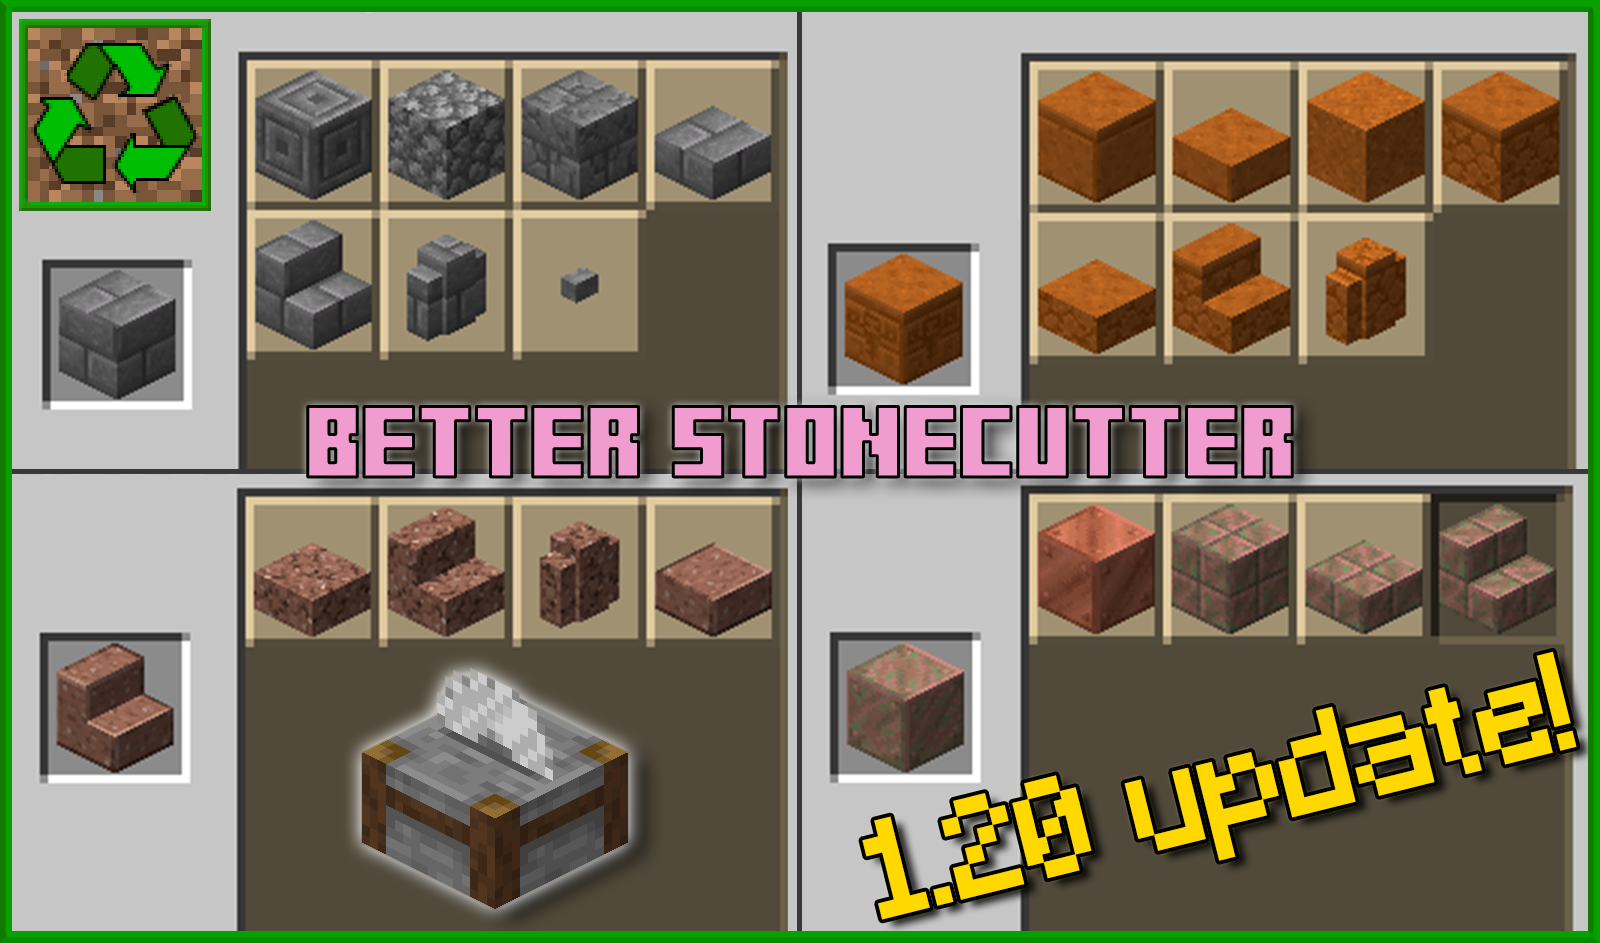
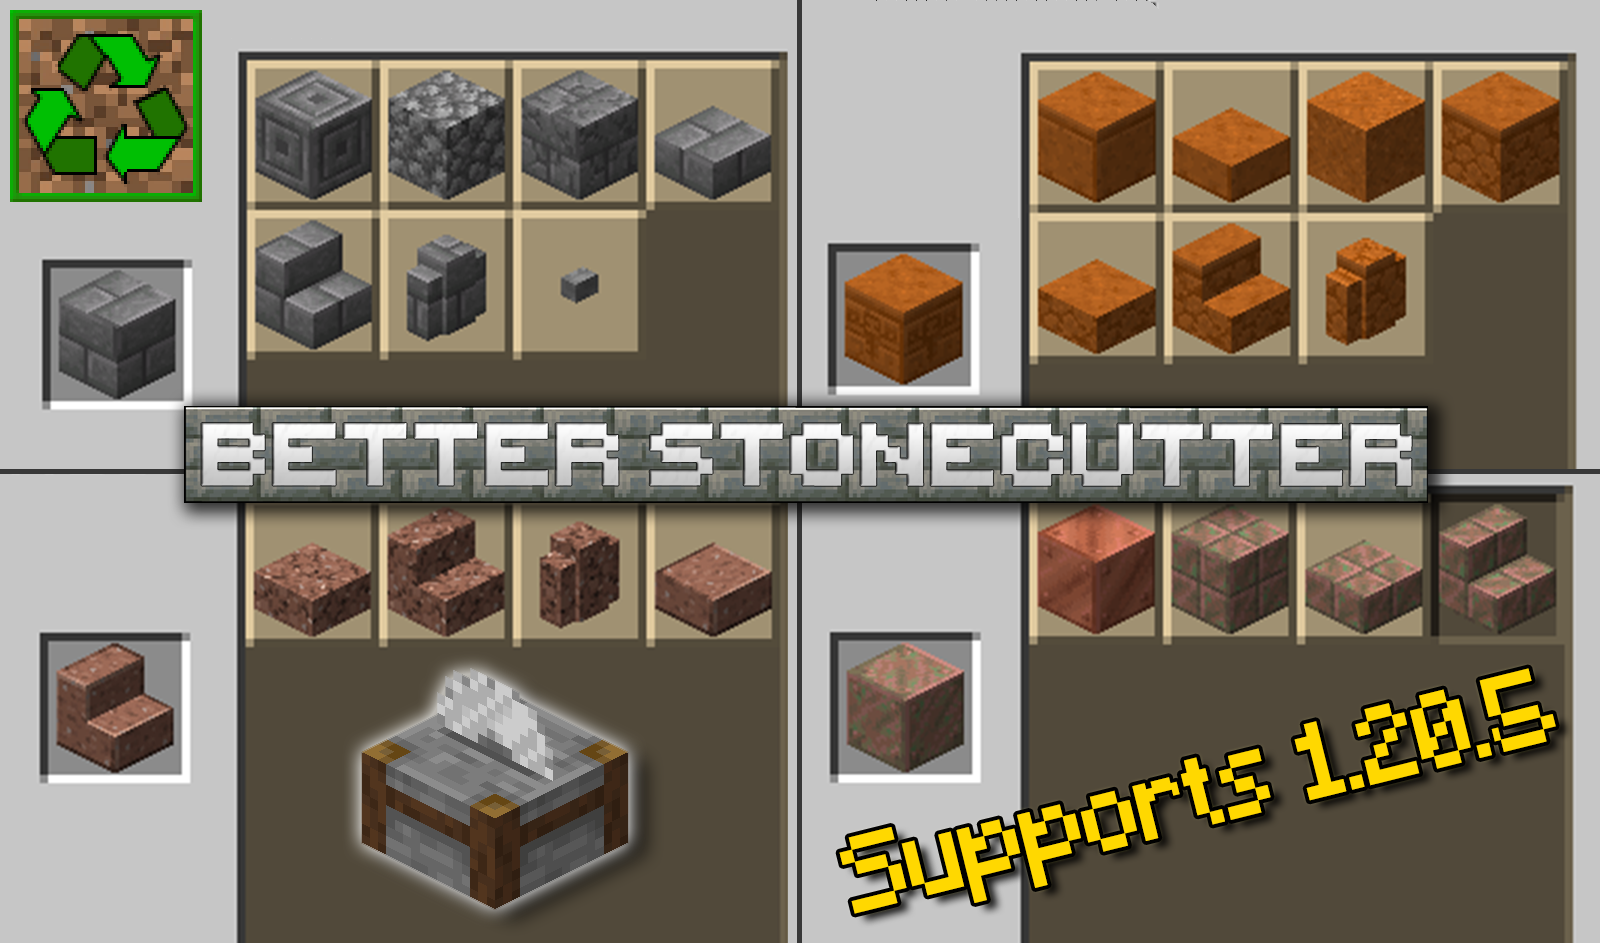
better stonecutter 2.0

Changed region(s): [[0.0, 0.0, 1.0, 1.0], [0.0938, 0.3998, 0.9062, 0.5536]]

diff --git a/pages/recyclecraft/better_stonecutter.md b/pages/recyclecraft/better_stonecutter.md
@@ -4,19 +4,19 @@ keywords: minecraft, datapack
 tags: [datapack, recyclecraft, standalone, QoL, crafting]
 sidebar: home_sidebar
 toc: true
-last_updated: 03/Jan/2024
+last_updated: 25/Apr/2024
 permalink: better_stonecutter.html
 published: true
 pmc: https://www.planetminecraft.com/data-pack/better-stonecutter-5432526/
 first_release: ["05","Jan","2022"]
-last_release: ["27","Mar","2023"]
+last_release: ["25","Apr","2024"]
 logo: recyclecraft/better_stonecutter/pack.png
 intro: "A datapack that adds more recipes to the stonecutter, allowing you to change more easily between block variants and waste less resources."
 abstract: "Adds more recipes to the stonecutter, allowing you to change more easily between block variants and waste less resources."
 priority: 3
 index: 4
-downloads: 3834
-downloads_str: "&gt;3.8k"
+downloads: 4100
+downloads_str: "&gt;4.1k"
 thumbnail: recyclecraft/better_stonecutter/thumbnail.png
 gallery: [images/recyclecraft/better_stonecutter/thumbnail.png,https://static.planetminecraft.com/files/image/minecraft/data-pack/2022/526/15262629-screenshot-at_l.webp,https://static.planetminecraft.com/files/image/minecraft/data-pack/2022/526/15262638-screenshot-at_l.webp,https://static.planetminecraft.com/files/image/minecraft/data-pack/2022/526/15262628-screenshot-at_l.webp,https://static.planetminecraft.com/files/image/minecraft/data-pack/2023/526/16630269_l.webp,https://static.planetminecraft.com/files/image/minecraft/data-pack/2022/526/15262630-screenshot-at_l.webp,https://static.planetminecraft.com/files/image/minecraft/data-pack/2022/526/15262552-screenshot-at_l.webp,https://static.planetminecraft.com/files/image/minecraft/data-pack/2022/526/15262637-screenshot-at_l.webp,https://static.planetminecraft.com/files/image/minecraft/data-pack/2022/526/15262633-screenshot-at_l.webp,https://static.planetminecraft.com/files/image/minecraft/data-pack/2022/526/15262632-screenshot-at_l.webp]
 ---
@@ -26,7 +26,9 @@ gallery: [images/recyclecraft/better_stonecutter/thumbnail.png,https://static.pl
 Choose the option compatible with your Minecraft version:
 
 <ul id="profileTabs" class="nav nav-tabs">
-    <li class="active"><a href="#current" data-toggle="tab">1.19+</a></li>
+    <li class="active"><a href="#current" data-toggle="tab">1.20.5+ (vanilla-balanced version)</a></li>
+    <li><a href="#current-op" data-toggle="tab">1.20.5+ ("OP" version)</a></li>
+    <li><a href="#legacy1-20" data-toggle="tab">1.19–1.20.4</a></li>
     <li><a href="#legacy" data-toggle="tab">1.17–1.18.2</a></li>
     <li><a href="#legacy2" data-toggle="tab">1.16.x</a></li>
 </ul>
@@ -34,9 +36,23 @@ Choose the option compatible with your Minecraft version:
 <div class="tab-content">
     <div role="tabpanel" class="tab-pane active" id="current">
         <p>
-            {% include dp_badges.html supports="1.19%2B" tested="1.19.4, 1.20, 1.20.4" %}
+            {% include dp_badges.html supports="1.20.5+" tested="1.20.5" %}
             <br/>
-            {% include dp_download.html version="v1.1.2" pmc-url="https://www.planetminecraft.com/data-pack/better-stonecutter-5432526/download/file/16628279/" dropbox-url="https://www.dropbox.com/s/llacu0cs85nwtkh/better_stonecutter_v1.1.2.zip?dl=1" %}
+            {% include dp_download.html version="v2.0-balanced" pmc-url="https://www.planetminecraft.com/data-pack/better-stonecutter-5432526/" dropbox-url="https://www.dropbox.com/scl/fi/ldw406fm8ejd5mfv5dco5/better_stonecutter_v2.0-balanced.zip?rlkey=r3m4me1fm3ijz53mezs8j82ji&st=yn4yhzaz&dl=1" %}
+        </p>
+    </div>
+    <div role="tabpanel" class="tab-pane" id="current-op">
+        <p>
+            {% include dp_badges.html supports="1.20.5+" tested="1.20.5" %}
+            <br/>
+            {% include dp_download.html version="v2.0-op" pmc-url="https://www.planetminecraft.com/data-pack/better-stonecutter-5432526/" dropbox-url="https://www.dropbox.com/scl/fi/6zu9wrmg2wa5j1v5hxrnr/better_stonecutter_v2.0-op.zip?rlkey=1t70u99ivu0kbxk6zw39cq8h2&st=vma6jd4x&dl=1" %}
+        </p>
+    </div>
+    <div role="tabpanel" class="tab-pane" id="legacy1-20">
+        <p>
+            {% include dp_badges.html supports="1.19–1.20.4" tested="1.19.4, 1.20, 1.20.4" %}
+            <br/>
+            {% include dp_download.html version="v1.1.2" dropbox-url="https://www.dropbox.com/s/llacu0cs85nwtkh/better_stonecutter_v1.1.2.zip?dl=1" discontinued=true %}
         </p>
     </div>
     <div role="tabpanel" class="tab-pane" id="legacy">
@@ -59,24 +75,26 @@ Choose the option compatible with your Minecraft version:
 
 ## Features
 
+{% include comments/tip.html content="There are two versions of this datapack:<br/><br/>&nbsp;&#x2022;&nbsp;The **\"OP\" version**: adds recipes according to my own judgement of what is balanced, but may be considered to be over-powered by some.<br/>&nbsp;&#x2022;&nbsp;The **\"vanilla-balanced\" version**: adds recipes more accordingly to the conversion rates of the regular vanilla recipes, to make the datapack less exploitable to those that prefer a more restricted experience.<br/><br/>See below for a summary of the differences between versions." %}
+
 Products of stonecutting are given recipes so they can be cut again into smaller or equal-size items (for example, stairs into slabs).
 
 - Some items can now be obtained through stonecutting:
     - Stone/blackstone &#x21D2; pressure plates, buttons
     - Nether Bricks &#x21D2; Nether Brick fence, Nether brick
-    - Quartz &#x21D2; Nether quartz
-    - Sandstone &#x21D2; sand
-    - Copper &#x21D2; copper ingots
-    - Iron &#x21D2; doors, pressure plates, iron bars, iron ingots
+    - Quartz &#x21D2; Nether quartz ("OP" version only)
+    - Sandstone &#x21D2; sand ("OP" version only)
+    - Copper &#x21D2; copper ingots, copper grates, copper doors, etc.
+    - Iron &#x21D2; doors, pressure plates, iron bars, iron ingots, chains ("OP" version only)
     - Gold &#x21D2; pressure plates, gold ingots
-    - Prismarine &#x21D2; prismarine shards
-    - Amethyst blocks or clusters &#x21D2; amethyst shards
+    - Prismarine &#x21D2; prismarine shards ("OP" version only)
+    - Amethyst blocks or clusters &#x21D2; amethyst shards ("OP" version only)
     - Mud bricks &#x21D2; Packed mud
   
-{% include comments/important.html content='Some of these recipes alter the vanilla balance by adding new ways to obtain certain items (for example, sand from sandstone or amethyst shards from blocks). I added them because I thought it made sense, but if you don\'t like it, it\'s possible to remove these recipes by simply going into the datapack\'s <code>data/dnv.recyclecraft/recipes/stonecutter/</code> folder and removing the recipes that you don\'t want (they are organized in subfolders, so it is easy to identify them and bulk-remove them).' %}
+{% include comments/important.html content='If you don\'t like some of the recipes, it\'s possible to remove them by simply going into the datapack\'s <code>data/dnv.better_stonecutter/recipes/</code> folder and removing the recipes that you don\'t want (they are organized in subfolders, so it is easy to identify them and bulk-remove them).' %}
 
 - You can switch between stone types (and their products) more easily:
-    - Stone can be cut into: smooth stone, stone bricks, cobblestone
+    - Stone can be cut into: stone bricks, cobblestone
     - Stone bricks can be cut into cobblestone
     - Mossy cobblestone can be cut into cobblestone
     - Mossy stone bricks can be cut into: mossy cobblestone, regular stone bricks, cobblestone
@@ -89,8 +107,21 @@ Products of stonecutting are given recipes so they can be cut again into smaller
 
 - Copper can be deoxidized and dewaxed with the stonecutter. Copper blocks can be cut into 5 stairs instead of 4, which makes more sense.
 
+### Differences in vanilla-balanced version with respect to the "OP" version:
+
+- Things that cannot be obtained from cutting:
+  - Amethyst shards, sand, red sand, quartz, and prismarine shards
+  - Copper doors/trapdoors
+  - Chains
+
+- Things that are more expensive:
+  - Lightning rods
+  - Iron trapdoors and bars
+  - Pressure plates and buttons
+  - Nether brick fences
+
 ## Considerations
 
-- As noted above, this datapack might make it easier to obtain certain types of blocks, but you have the option to remove those recipes manually.
+- This datapack might make it easier to obtain certain types of blocks, but you have the option to remove those recipes manually.
 - The recipes were designed taking into account [Vanilla Tweak's _Back to Blocks_ datapack](https://vanillatweaks.net/picker/crafting-tweaks/){:target="_blank"}, I recommend using that datapack along with this one to make the most efficient use of blocks.
 - The [_Cuttable Wood_](cuttable_wood.html) datapack extends this same philosophy to wooden blocks. I recommend using them together.

diff --git a/_includes/changelogs/better_stonecutter/v2.0.md b/_includes/changelogs/better_stonecutter/v2.0.md
@@ -1,0 +1,62 @@
+
+- Now there are two versions of this datapack (same as with my Cuttable Wood datapack):
+  - A "OP" version, which follows the same philosophy as the previous versions of this datapack (recipe are balanced by my own judgement).
+  - A "vanilla-balanced" version, which takes into account the vanilla recipes in order to nerf the output of some recipes, and forbids some recipes that are available in the "OP" version which are impossible in vanilla Minecraft (mainly, unpacking blocks such as sandstone into sand, quartz blocks into quartz, etc.).
+- Recipes for new 1.21 tuff and copper blocks.
+- All recipes were revised. Now an algorithm that takes into account the value of each block is used to decide its output. See below the recipe changes.
+- Adapted recipes to new format.
+- Simplified recipe-unlocking advancements, making the datapack lighter.
+- Re-organized datapack files.
+- The new datapack is now about 50% of its previous size.
+
+### Differences in vanilla-balanced version with respect to the "OP" version:
+
+- Things that cannot be obtained from cutting:
+  - Amethyst shards, sand, red sand, quartz, and prismarine shards
+  - Copper doors/trapdoors
+  - Chains
+
+- Things that are more expensive:
+  - Lightning rods
+  - Iron trapdoors and bars
+  - Pressure plates and buttons
+  - Nether brick fences
+
+### Recipe changes (in "OP" version, with respect to previous versions):
+
+New recipes for 1.21:
+
+- Copper grates are obtainable from copper blocks, cut copper, and chiseled copper
+- Copper doors are obtainable from copper blocks, cut copper, chiseled copper, and copper grates
+- Copper trapdoors are obtainable from copper blocks, cut copper, stairs, slabs, chiseled copper, copper grates, and doors
+- De-waxing and de-oxidizing recipes for all new copper blocks, including the copper bulb
+
+Other new recipes (mostly things I missed in previous versions):
+
+- Chains are now obtainable from iron blocks, doors, trapdoors, and iron pressure plates
+- Prismarine bricks are more valuable than regular prismarine (since they require more shards), so prismarine brick partial blocks can now be cut into prismarine blocks (e.g. prismarine brick stairs -> prismarine)
+- Amethyst cluster -> Amethyst block
+- Blackstone stairs/slabs/walls -> Polished blackstone buttons/pressure plates
+- Chiseled polished blackstone -> polished blackstone partial blocks
+- Chiseled stone bricks -> stone brick partial blocks
+- Recipes to switch between blackstone variants (regular <-> polished <-> bricks <-> chiseled)
+- Copper ingots and lightning rods from some copper blocks
+- Cracked bricks/tiles are now also cuttable to non-cracked partial brick/tiles blocks (e.g. cracked stone bricks -> stone brick wall)
+- Smooth variants can now be cut into non-smooth variants (e.g. smooth sandston slab -> sandstone slab)
+- Mossy stone variants -> stone buttons
+- Mossy stone bricks -> Chiseled stone bricks
+
+Removed recipes:
+
+- Stone variants -> Smooth stone variants (these were an oversight, since smooth stone is obtained by smelting stone)
+- Mossy cobblestone blocks -> Non-mossy partial blocks (these were also an oversight and not consistent with the rest of recipes)
+- Iron trapdoors -> Iron pressure plates
+
+Changes to existing recipes:
+
+- Cracked bricks now give the same amount of buttons (or nether bricks) as regular blocks.
+- Iron doors, trapdoors, and pressure plates are now cheaper to get. An iron block gives 4 doors instead of 2 (since 1 door = 2 ingots = ~1/4 block), and the other recipes were changed accordingly.
+- Iron bars are now more expensive to get. An iron block gives 18 iron bars instead of 24. Other recipes were nerfed accordingly.
+- As mentioned before, prismarine bricks are now more valuable than regular prismarine:
+  - Prismarine bricks -> 2 prismarine instead of 1 (other recipes boosted accordingly)
+  - Prismarine bricks -> 9 prismarine shards instead of 8

diff --git a/_posts/2024-04-25-better_stonecutter_v2.0.md b/_posts/2024-04-25-better_stonecutter_v2.0.md
@@ -1,0 +1,18 @@
+---
+title:  "Better Stonecutter 2.0 Release"
+published: true
+permalink: better_stonecutter_v2.0.html
+summary: "Improved copper recipes."
+tags: [news,changelog,recyclecraft]
+datapack: better_stonecutter
+changelog: v2.0
+---
+
+As I told you [on the 1.20.5 update post](update_MC1.20.5.html), Minecraft 1.20.5 introduced a lot of changes in the technical side of datapacks. I'm slowly getting everything up to date. [Cuttable wood](cuttable_wood.html) was the first updated datapack, and tnow is the turn of Better Stonecutter. Next will be [More Compostable Items](more_compostable_items.html), hopefully on the following days or maybe even today.
+
+This update introduces a lot of changes in Better Stonecutter. The main one being that there are now *two* versions of the datapack, following the same philosophy as with [Cuttable wood](cuttable_wood.html). I think this was needed, since this datapack was introducing quite a lot of "balance-breaking" features that I personally liked but might deter some people from using the datapack due to feeling cheesy. Now there's the "vanilla-balanced" version for those people, with all the features of the regular "OP" version but more restricted to what's possible in vanilla Minecraft.
+
+<div class="btn-group">
+    <a href="better_stonecutter_v1.1.2.html" role="button" class="btn btn-primary"><i class="fa fa-caret-left"></i>&nbsp; Previous release: v1.1.2</a>
+    <button role="button" class="btn btn-default disabled">Next release: TBR &nbsp;<i class="fa fa-caret-right"></i> </button>
+</div>

diff --git a/pages/recyclecraft/cuttable_wood.md b/pages/recyclecraft/cuttable_wood.md
@@ -54,14 +54,14 @@ Choose the option compatible with your Minecraft version:
         <p>
             {% include dp_badges.html supports="1.20–1.20.4" tested="1.20, 1.20.4" %}
             <br/>
-            {% include dp_download.html version="v3-op" dropbox-url="https://www.dropbox.com/s/oyhstnuwpyaf7as/cuttable_wood_v3-op.zip?dl=1" %}
+            {% include dp_download.html version="v3-op" dropbox-url="https://www.dropbox.com/s/oyhstnuwpyaf7as/cuttable_wood_v3-op.zip?dl=1" discontinued=true %}
         </p>
     </div>
     <div role="tabpanel" class="tab-pane" id="legacy-1-20-4-balanced">
         <p>
             {% include dp_badges.html supports="1.20–1.20.4" tested="1.20, 1.20.4" %}
             <br/>
-            {% include dp_download.html version="v3-balanced" dropbox-url="https://www.dropbox.com/s/zfjk4lc711ri67d/cuttable_wood_v3-balanced.zip?dl=1" %}
+            {% include dp_download.html version="v3-balanced" dropbox-url="https://www.dropbox.com/s/zfjk4lc711ri67d/cuttable_wood_v3-balanced.zip?dl=1" discontinued=true %}
         </p>
     </div>
     <div role="tabpanel" class="tab-pane" id="legacy">

diff --git a/_posts/2023-03-27-better_stonecutter_v1.1.2.md b/_posts/2023-03-27-better_stonecutter_v1.1.2.md
@@ -9,3 +9,8 @@ changelog: v1.1.2
 ---
 
 Just a small patch that fixes copper block -> copper stairs recipes. Now these yield 5 stairs (vs. the 4 of the vanilla recipes), which makes more sense. The vanilla recipes are now being disabled with the `"filter"` option of `pack.mcmeta`, which should be safer.
+
+<div class="btn-group">
+    <a href="better_stonecutter_v1.1.1.html" role="button" class="btn btn-primary"><i class="fa fa-caret-left"></i>&nbsp; Previous release: v1.1.1</a>
+    <a href="better_stonecutter_v2.0.html" role="button" class="btn btn-primary">Next release: v2.0 &nbsp;<i class="fa fa-caret-right"></i></a>
+</div>

diff --git a/_posts/2022-08-17-better_stonecutter_v1.1.1.md b/_posts/2022-08-17-better_stonecutter_v1.1.1.md
@@ -7,3 +7,8 @@ tags: [news,changelog,recyclecraft]
 datapack: better_stonecutter
 changelog: v1.1.1
 ---
+
+<div class="btn-group">
+    <a href="better_stonecutter_v1.1.html" role="button" class="btn btn-primary"><i class="fa fa-caret-left"></i>&nbsp; Previous release: v1.1</a>
+    <a href="better_stonecutter_v1.1.2.html" role="button" class="btn btn-primary">Next release: v1.1.2 &nbsp;<i class="fa fa-caret-right"></i></a>
+</div>

diff --git a/_posts/2022-06-11-better_stonecutter_v1.1.md b/_posts/2022-06-11-better_stonecutter_v1.1.md
@@ -7,3 +7,8 @@ tags: [news,changelog,recyclecraft]
 datapack: better_stonecutter
 changelog: v1.1
 ---
+
+<div class="btn-group">
+    <a href="better_stonecutter_v1.html" role="button" class="btn btn-primary"><i class="fa fa-caret-left"></i>&nbsp; Previous release: v1</a>
+    <a href="better_stonecutter_v1.1.1.html" role="button" class="btn btn-primary">Next release: v1.1.1 &nbsp;<i class="fa fa-caret-right"></i></a>
+</div>

diff --git a/_posts/2022-01-05-better_stonecutter_v1.md b/_posts/2022-01-05-better_stonecutter_v1.md
@@ -7,3 +7,9 @@ tags: [news,changelog,recyclecraft]
 datapack: better_stonecutter
 changelog: v1
 ---
+
+
+<div class="btn-group">
+    <button type="button" class="btn btn-default disabled"><i class="fa fa-caret-left"></i>&nbsp; Previous release: None</button>
+    <a href="better_stonecutter_v1.1.html" role="button" class="btn btn-primary">Next release: v1.1 &nbsp;<i class="fa fa-caret-right"></i></a>
+</div>
